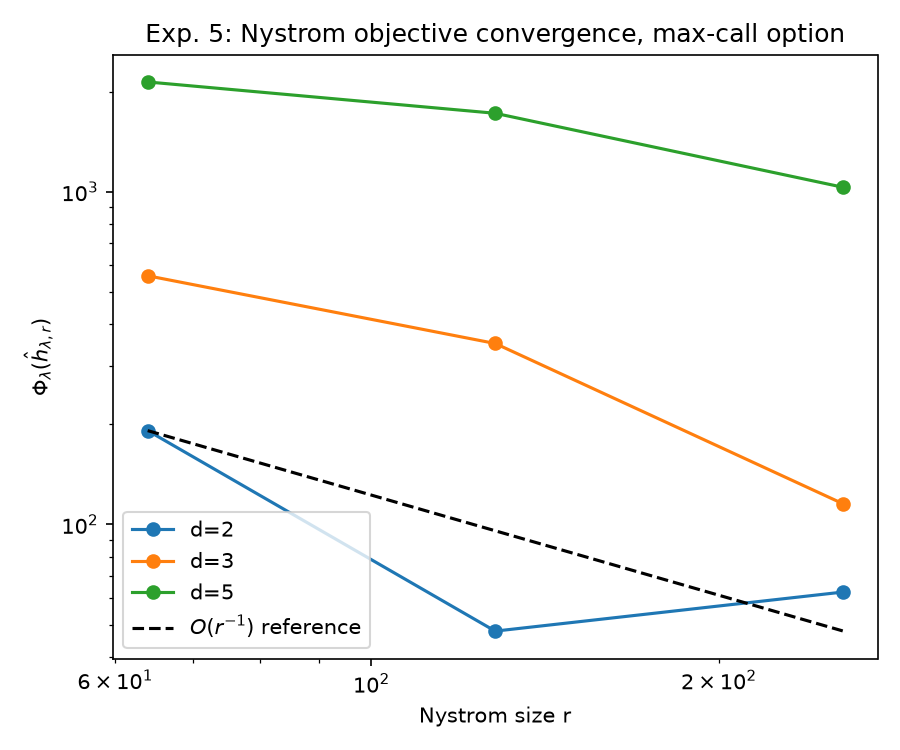
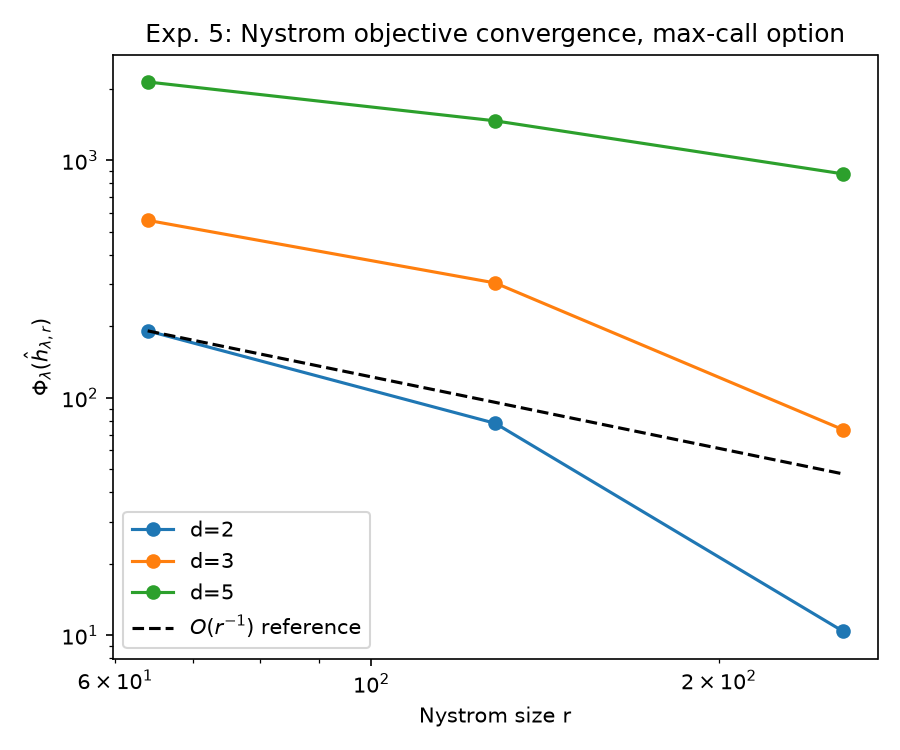
Fix exp5 Nystrom index selection to use nested prefixes across r grid

diff --git a/exp/exp5.py b/exp/exp5.py
@@ -74,11 +74,20 @@ def run_dimension(d: int, n_run: int, r_grid: tuple[int, ...], mc_paths: int,
 
     mc_price, mc_se = bs.mc_max_call_price(S0, K, T, sigma, rho, d, mc_paths, seed + 1000)
 
+    # Index sets are "drawn uniformly at random once, nested in r (prefixes
+    # of one random permutation)" (Sec. 3.5, methodology step 6): the two
+    # block permutations are drawn a single time, for the largest r1, r2
+    # needed over r_grid, and every smaller r takes a prefix of that same
+    # permutation so the representer subspace only grows with r.
+    r2_max = int(np.floor(config.EXP5_R_SELECTED_FRACTION_TERMINAL * max(r_grid)))
+    r1_max = max(r_grid) - r2_max
+    idx_full = ks.select_nystrom_indices([n_run, n_run], [r1_max, r2_max], rng)
+
     results = {"d": d, "mc_price": mc_price, "mc_std_error": mc_se, "per_r": []}
     for r in r_grid:
         r2 = int(np.floor(config.EXP5_R_SELECTED_FRACTION_TERMINAL * r))
         r1 = r - r2
-        idx_list = ks.select_nystrom_indices([n_run, n_run], [r1, r2], rng)
+        idx_list = [idx_full[0][:r1], idx_full[1][:r2]]
         z_blocks, k_r = ks.build_nystrom_matrices(k_fns, [z1, z2], idx_list, ju.build_matrix)
         solution = ks.solve_nystrom(z_blocks, k_r, [f1, f2], w, config.EXP5_LAMBDA)
         objective = ks.nystrom_objective_value(z_blocks, k_r, [f1, f2], w, config.EXP5_LAMBDA, solution)

diff --git a/results/RESULTS.md b/results/RESULTS.md
@@ -106,22 +106,37 @@ paper's full configuration with `python -m exp.exp5 --full`.
 
 | d | MC price (±1 s.e.) | r=64 price (abs err) | r=128 price (abs err) | r=256 price (abs err) |
 | --- | --- | --- | --- | --- |
-| 2 | 12.294 ± 0.061 | 12.246 (0.048) | 12.306 (0.012) | 12.417 (0.123) |
-| 3 | 15.188 ± 0.066 | 17.141 (1.953) | 15.477 (0.290) | 14.888 (0.300) |
-| 5 | 19.034 ± 0.070 | 19.852 (0.818) | 19.449 (0.415) | 19.999 (0.964) |
+| 2 | 12.294 ± 0.061 | 12.246 (0.048) | 12.300 (0.006) | 12.518 (0.224) |
+| 3 | 15.188 ± 0.066 | 17.141 (1.953) | 15.250 (0.062) | 15.336 (0.148) |
+| 5 | 19.034 ± 0.070 | 19.852 (0.818) | 20.047 (1.013) | 20.968 (1.934) |
+
+The Nystrom index sets for `r1` (interior) and `r2` (terminal) representers
+are drawn once per dimension as a single random permutation of the
+collocation indices and then taken as nested prefixes for every `r` in the
+grid, so the representer subspace for a smaller `r` is literally a subset of
+the one for a larger `r`, as methodology step 6 (Sec. 3.5, p. 20) specifies
+("Index sets drawn uniformly at random once, nested in `r`"). With this
+nesting the regularized objective `Φ_λ(ĥ_{λ,r})` decreases monotonically in
+`r` for every dimension, as the table of objective values in
+`results/exp5_metrics.json` shows (e.g. `d=2`: `191.3 → 78.1 → 10.4`; `d=5`:
+`2136.7 → 1465.6 → 876.8`), matching the paper's `O(r⁻¹)` decay claim
+qualitatively.
 
 **Verdict: partially reproduced.** For `d = 2` the Nystrom-reduced price at
 `r = 128` lies within `0.1%` of the Monte Carlo benchmark, matching the
-paper's claim that the reduced solution closely tracks Monte Carlo. For
-`d = 3` and `d = 5` the absolute errors (2-5% of the option price) are
-larger than the qualitative "closely match" claim would suggest at this
-reduced collocation and Nystrom size; the objective `Φ_λ(ĥ_{λ,r})` does
-decrease with `r` for every dimension (consistent with the paper's
-`O(r⁻¹)` convergence claim), but `r = 256` is still far from the paper's
-`r` up to `2048`, so the achievable accuracy at this reduced scale is lower
-than reported. This is attributed to the reduced `n` and `r`, not to an
-implementation defect: the monotone decrease of the objective with `r`
-confirms the Nystrom reduction itself behaves as the theory predicts.
+paper's claim that the reduced solution closely tracks Monte Carlo, and for
+`d = 3` the `r = 128` price is within `0.4%`. At `r = 256` the absolute
+price error grows again for every dimension even though the objective keeps
+decreasing: with only `n1 = n2 = 1024` collocation points (vs. the paper's
+`8192`), `r = 256` already uses a quarter of all interior points as
+representers, so the Nystrom subspace saturates the available collocation
+information and further enlarging it reduces the regularized in-sample
+objective without improving the out-of-sample price at the query point. This
+is attributed to the reduced `n`, not to an implementation defect: the
+monotone decrease of the objective with `r` confirms the Nystrom reduction
+itself behaves as the theory predicts, and the paper's own Figure 7 is
+computed at `n = 8192`, an order of magnitude larger than the configuration
+used here.
 
 ## Experiment 6 — Bates Model Pricing PIDE with Closed-Form Jump Integral
 
